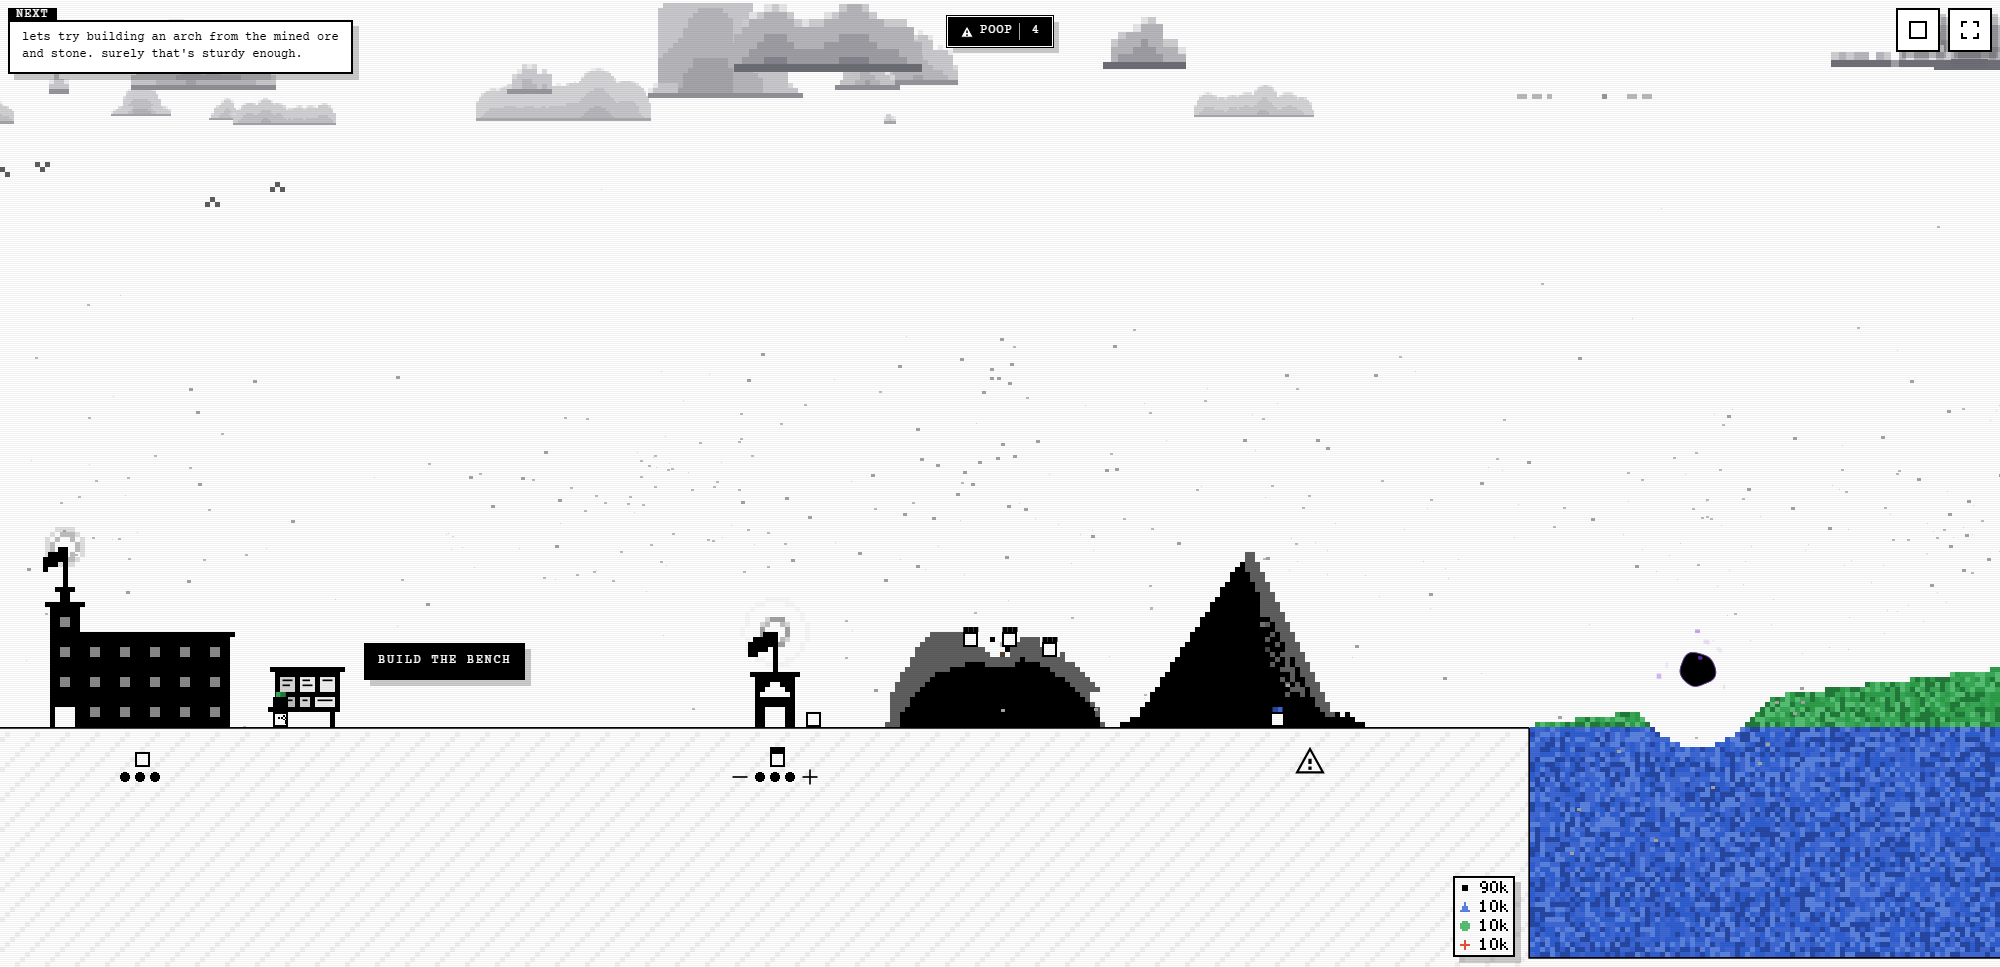
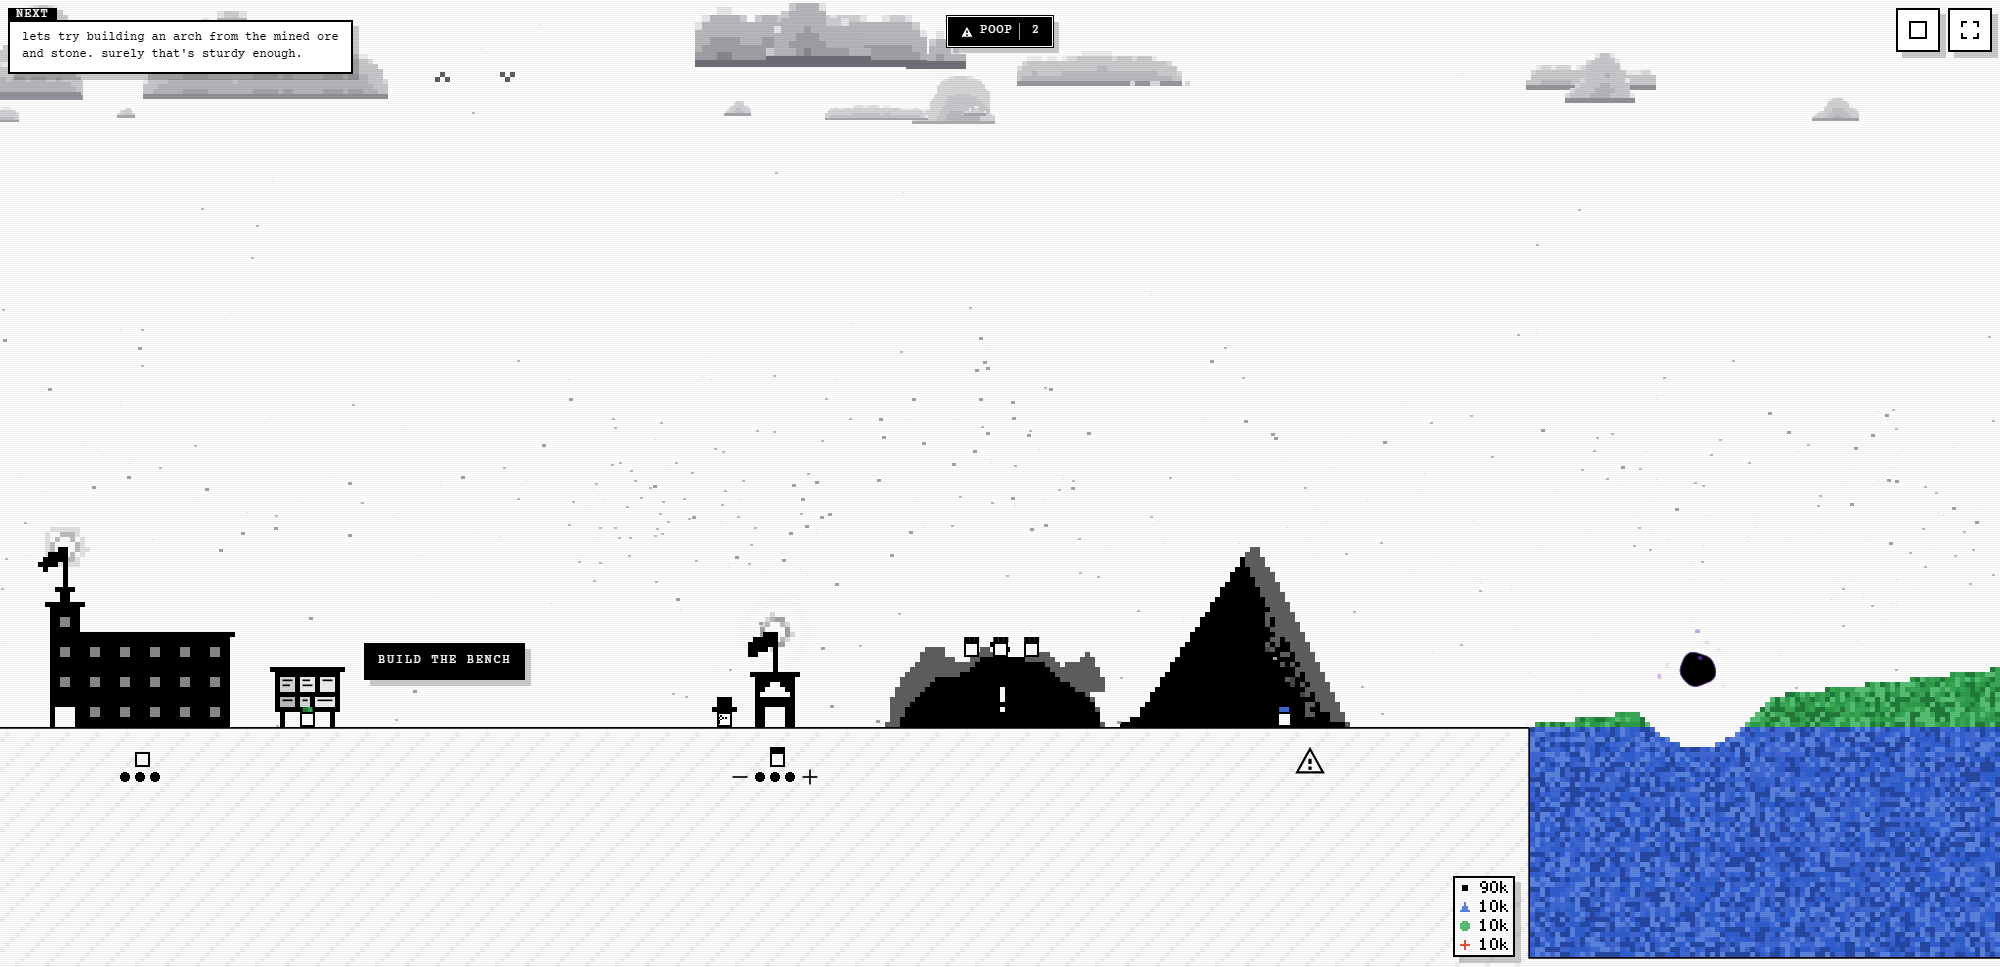
Yard sky: the before/after review

diff --git a/docs/reviews/2026-10-21-yard-sky/index.html b/docs/reviews/2026-10-21-yard-sky/index.html
@@ -1,0 +1,174 @@
+<!doctype html><html lang="en"><head><meta charset="utf-8"><meta name="viewport" content="width=device-width,initial-scale=1">
+<title>The yard's sky on the cloud renderer</title>
+<style>
+:root{--bg:#f2f2ef;--card:#fff;--ink:#1a1a1a;--mute:#5c5c58;--line:#d6d6d0;--well:#e8e8e4;--ok:#2f7a3b;--no:#b3261e;--scrim:rgb(20 20 20 / .97)}
+@media (prefers-color-scheme:dark){:root:not([data-theme="light"]){--bg:#141414;--card:#1f1f1f;--ink:#e6e6e6;--mute:#9a9a95;--line:#333;--well:#2a2a2a;--ok:#7fcf8b;--no:#f2b8b5}}
+:root[data-theme="dark"]{--bg:#141414;--card:#1f1f1f;--ink:#e6e6e6;--mute:#9a9a95;--line:#333;--well:#2a2a2a;--ok:#7fcf8b;--no:#f2b8b5}
+*{box-sizing:border-box}
+body{margin:0;background:var(--bg);color:var(--ink);font:15px/1.5 system-ui,-apple-system,"Segoe UI",sans-serif;overflow-x:hidden}
+main{max-width:1240px;margin:0 auto;padding:24px 16px 64px}
+h1{font-size:24px;margin:0 0 4px}.lede{color:var(--mute);max-width:80ch;margin:4px 0}.refs{font-size:12px;color:var(--mute)}
+.refs code{font-size:12px}
+.bar{position:sticky;top:0;background:var(--bg);padding:8px 0;display:flex;flex-wrap:wrap;gap:6px;align-items:center;border-bottom:1px solid var(--line);z-index:2;margin-top:12px}
+button{font:13px system-ui,sans-serif;padding:4px 10px;background:var(--card);color:var(--ink);border:1px solid var(--line);cursor:pointer}
+button:focus-visible{outline:2px solid var(--ink);outline-offset:1px}
+.bar button[aria-pressed="true"]{background:var(--ink);color:var(--bg);border-color:var(--ink)}
+.count,.status{font-size:12px;color:var(--mute)}.status.bad{color:var(--no)}
+.item{background:var(--card);border:1px solid var(--line);border-left:4px solid var(--line);padding:12px 14px;margin:14px 0;min-width:0}
+.item.approve{border-left-color:var(--ok)}.item.deny{border-left-color:var(--no)}
+.item h2{margin:2px 0 2px;font-size:17px}.tag{font-size:12px;color:var(--mute)}.what{margin:2px 0 8px;max-width:90ch}
+.shot{border-top:1px dashed var(--line);padding:8px 0}
+.shot .label{font-size:13px;color:var(--mute);margin-bottom:4px}
+.pair{display:grid;grid-template-columns:1fr 1fr;gap:10px;align-items:start}
+@media (max-width:700px){.pair{grid-template-columns:1fr}}
+figure{margin:0;min-width:0}
+figcaption{font-size:11px;letter-spacing:.08em;text-transform:uppercase;color:var(--mute);margin-bottom:2px}
+.pic{display:block;width:100%;padding:0;border:1px solid var(--line);background:var(--well);cursor:zoom-in}
+.pic img{display:block;max-width:100%;max-height:520px;margin:0 auto;height:auto}
+.px img{image-rendering:pixelated}
+.none{padding:18px 10px;font-size:13px;color:var(--mute);border:1px dashed var(--line);text-align:center}
+.note{font-size:12px;color:var(--mute)}
+.act{display:flex;flex-wrap:wrap;gap:6px;align-items:center;margin-top:8px}
+.act .ok[aria-pressed="true"]{background:var(--ok);color:var(--bg);border-color:var(--ok)}
+.act .no[aria-pressed="true"]{background:var(--no);color:var(--bg);border-color:var(--no)}
+textarea{font:14px system-ui,sans-serif;width:100%;min-height:2.4em;margin-top:6px;padding:4px 6px;background:var(--bg);color:var(--ink);border:1px solid var(--line);resize:vertical}
+.saved{font-size:11px;color:var(--mute)}
+.lb{position:fixed;inset:0;background:var(--scrim);display:flex;flex-direction:column;z-index:10;color:#eee}
+.lb[hidden]{display:none}
+.lb .top{display:flex;flex-wrap:wrap;gap:8px;align-items:center;padding:8px 12px;font-size:13px}
+.lb .top .t{flex:1;min-width:0;overflow-wrap:anywhere}
+.lb button{background:#222;color:#eee;border-color:#555}
+.lb button[aria-pressed="true"]{background:#eee;color:#111;border-color:#eee}
+.lb .stage{flex:1;min-height:0;display:flex;align-items:center;justify-content:center;padding:8px}
+.lb .stage img{max-width:100%;max-height:100%;object-fit:contain}
+.lb .side{font-size:12px;letter-spacing:.1em;text-transform:uppercase}
+.lb .hint{font-size:11px;color:#aaa;padding:0 12px 8px}
+</style></head><body><main>
+<h1 id="title"></h1>
+<p class="lede" id="lede"></p>
+<p class="refs" id="refs"></p>
+<div class="bar" id="bar"><button data-f="all" aria-pressed="true">all</button><button data-f="open">unreviewed</button><button data-f="approve">approved</button><button data-f="deny">denied</button><span class="count" id="count"></span><span class="status" id="status">connecting…</span></div>
+<div id="list"></div></main>
+<div class="lb" id="lb" hidden role="dialog" aria-modal="true" aria-label="enlarged shot">
+ <div class="top"><span class="t" id="lbt"></span><button id="lbb" aria-pressed="true">before</button><button id="lba" aria-pressed="false">after</button><button id="lbx">close</button></div>
+ <div class="stage" id="lbs"><img id="lbi" alt=""></div>
+ <div class="hint">space flips before and after · ← → step through shots · esc closes</div>
+</div>
+<script id="data" type="application/json">{"title":"The yard's sky on the cloud renderer","lede":"Every yard cloud is the shared renderer's: turrets on a flat base, flowing slowly, swelling with the storm's clock and browning with the murk as before. Weather, rain, the storm clock and smog are unchanged.","base":"9370442c6ce6c5f3807ec379ed9c8f234c358657","head":"9bf0ee2e2efb1202fb78fad3fc9f196b57a53396","at":"2026-10-20T20:10:43.400Z","items":[{"id":"clear","title":"A clear sky","what":"the ordinary sky","audit":[],"shots":[{"label":"2000x967 light","before":{"src":"clear/1-before.png","gif":false,"note":""},"after":{"src":"clear/1-after.png","gif":false,"note":""},"pixel":false},{"label":"2000x967 dark","before":{"src":"clear/2-before.png","gif":false,"note":""},"after":{"src":"clear/2-after.png","gif":false,"note":""},"pixel":false},{"label":"800x600 light","before":{"src":"clear/3-before.png","gif":false,"note":""},"after":{"src":"clear/3-after.png","gif":false,"note":""},"pixel":false},{"label":"800x600 dark","before":{"src":"clear/4-before.png","gif":false,"note":""},"after":{"src":"clear/4-after.png","gif":false,"note":""},"pixel":false}]},{"id":"swell","title":"A front at the end of its brew","what":"the clouds swelled by the storm's clock","audit":[],"shots":[{"label":"2000x967 light","before":{"src":"swell/1-before.png","gif":false,"note":""},"after":{"src":"swell/1-after.png","gif":false,"note":""},"pixel":false},{"label":"2000x967 dark","before":{"src":"swell/2-before.png","gif":false,"note":""},"after":{"src":"swell/2-after.png","gif":false,"note":""},"pixel":false},{"label":"800x600 light","before":{"src":"swell/3-before.png","gif":false,"note":""},"after":{"src":"swell/3-after.png","gif":false,"note":""},"pixel":false},{"label":"800x600 dark","before":{"src":"swell/4-before.png","gif":false,"note":""},"after":{"src":"swell/4-after.png","gif":false,"note":""},"pixel":false}]},{"id":"rain","title":"A full storm","what":"the rain under the swelled sky","audit":[],"shots":[{"label":"2000x967 light","before":{"src":"rain/1-before.png","gif":false,"note":""},"after":{"src":"rain/1-after.png","gif":false,"note":""},"pixel":false},{"label":"2000x967 dark","before":{"src":"rain/2-before.png","gif":false,"note":""},"after":{"src":"rain/2-after.png","gif":false,"note":""},"pixel":false},{"label":"800x600 light","before":{"src":"rain/3-before.png","gif":false,"note":""},"after":{"src":"rain/3-after.png","gif":false,"note":""},"pixel":false},{"label":"800x600 dark","before":{"src":"rain/4-before.png","gif":false,"note":""},"after":{"src":"rain/4-after.png","gif":false,"note":""},"pixel":false}]},{"id":"acid","title":"The storm over a dirty sky","what":"the murk's brown in the clouds","audit":[],"shots":[{"label":"2000x967 light","before":{"src":"acid/1-before.png","gif":false,"note":""},"after":{"src":"acid/1-after.png","gif":false,"note":""},"pixel":false}]},{"id":"fallback","title":"No WebGL2","what":"the same clouds as columns, as a page without WebGL2 draws them (CLOUDS_FLAT forced on)","audit":[],"shots":[{"label":"2000x967 light, columns","before":{"note":"error: Error: no such knob: CLOUDS_FLAT"},"after":{"src":"fallback/1-after.png","gif":false,"note":""},"pixel":false}]},{"id":"pan","title":"A pan in the brew","what":"every cloud sliding as one piece","audit":[],"shots":[{"label":"pan","before":{"src":"pan/1-before.gif","gif":true,"note":""},"after":{"src":"pan/1-after.gif","gif":true,"note":""},"pixel":false}]}]}</script>
+<script>
+const D = JSON.parse(document.getElementById('data').textContent);
+const rev = {}; let db = null, filter = 'all';
+const list = document.getElementById('list'), rows = new Map();
+const esc = s => String(s).replace(/[&<>"]/g, c => ({'&':'&amp;','<':'&lt;','>':'&gt;','"':'&quot;'}[c]));
+document.getElementById('title').textContent = D.title;
+document.getElementById('lede').textContent = D.lede;
+document.getElementById('refs').innerHTML = 'before <code>' + esc(D.base.slice(0, 8)) + '</code> · after <code>' + esc(D.head.slice(0, 8)) + '</code> · shot ' + esc(D.at.slice(0, 16).replace('T', ' ')) + ' UTC';
+
+// Every enlargeable shot in page order, for the lightbox's arrows.
+const flat = [];
+const side = (s, which) => {
+  if (!s.src) return '<div class="none">' + esc(s.note || 'not shot') + '</div>';
+  const k = flat.length;
+  return '<button class="pic" data-k="' + k + '" data-side="' + which + '" aria-label="enlarge ' + which + '"><img loading="lazy" src="' + esc(s.src) + '" alt="' + which + '"></button>' + (s.note ? '<div class="note">' + esc(s.note) + '</div>' : '');
+};
+for (const it of D.items) {
+  const el = document.createElement('article'); el.className = 'item'; el.id = it.id;
+  let shots = '';
+  it.shots.forEach((s, n) => {
+    shots += '<div class="shot' + (s.pixel ? ' px' : '') + '"><div class="label">' + (n + 1) + '. ' + esc(s.label) + '</div><div class="pair">'
+      + '<figure><figcaption>before</figcaption>' + side(s.before, 'before') + '</figure>'
+      + '<figure><figcaption>after</figcaption>' + side(s.after, 'after') + '</figure></div></div>';
+    // pushed after both sides are written, so the pair share one entry
+    flat.push({ it, n, s });
+  });
+  el.innerHTML = '<div class="tag">' + esc(it.id) + (it.audit.length ? ' · audit ' + it.audit.map(esc).join(', ') : '') + '</div>'
+    + '<h2>' + esc(it.title) + '</h2><p class="what">' + esc(it.what) + '</p>' + shots
+    + '<div class="act"><button class="ok" aria-pressed="false">approve</button><button class="no" aria-pressed="false">deny</button><span class="saved"></span></div>'
+    + '<textarea placeholder="comment (optional)" aria-label="comment on ' + esc(it.title) + '"></textarea>';
+  list.append(el);
+  const r = { it, el, ok: el.querySelector('.ok'), no: el.querySelector('.no'), note: el.querySelector('textarea'), saved: el.querySelector('.saved'), timer: null };
+  rows.set(it.id, r);
+  r.ok.onclick = () => setVerdict(r, rev[it.id]?.verdict === 'approve' ? '' : 'approve');
+  r.no.onclick = () => setVerdict(r, rev[it.id]?.verdict === 'deny' ? '' : 'deny');
+  r.note.addEventListener('input', () => { clearTimeout(r.timer); r.saved.textContent = db ? 'saving…' : 'not saved: open the published page'; r.timer = setTimeout(() => save(r), 600); });
+  r.note.addEventListener('blur', () => { if (r.timer) { clearTimeout(r.timer); save(r); } });
+}
+
+function setVerdict(r, v) { rev[r.it.id] = { ...(rev[r.it.id] || {}), verdict: v }; paint(r); save(r); }
+function paint(r) {
+  const v = rev[r.it.id]?.verdict || '';
+  r.ok.setAttribute('aria-pressed', v === 'approve'); r.no.setAttribute('aria-pressed', v === 'deny');
+  r.el.classList.toggle('approve', v === 'approve'); r.el.classList.toggle('deny', v === 'deny');
+}
+async function save(r) {
+  r.timer = null;
+  if (!db) { r.saved.textContent = 'not saved: open the published page'; render(); return; }
+  const verdict = rev[r.it.id]?.verdict || '', comment = r.note.value;
+  rev[r.it.id] = { verdict, comment };
+  try {
+    const ref = db.collection('reviews').doc(r.it.id);
+    if (!verdict && !comment.trim()) await ref.delete();
+    else await ref.set({ verdict, comment, title: r.it.title, at: new Date().toISOString() });
+    r.saved.textContent = 'saved';
+  } catch (e) { r.saved.textContent = 'not saved: ' + (e && e.code || 'error'); }
+  render();
+}
+function render() {
+  let n = 0, done = 0, ok = 0, no = 0;
+  for (const r of rows.values()) {
+    const v = rev[r.it.id]?.verdict || '';
+    if (v) done++; if (v === 'approve') ok++; if (v === 'deny') no++;
+    const show = filter === 'all' || (filter === 'open' ? !v : filter === v);
+    r.el.hidden = !show; if (show) n++;
+  }
+  for (const b of document.querySelectorAll('#bar button')) b.setAttribute('aria-pressed', b.dataset.f === filter);
+  document.getElementById('count').textContent = n + ' shown · ' + done + ' of ' + D.items.length + ' reviewed · ' + ok + ' approved · ' + no + ' denied';
+}
+document.getElementById('bar').addEventListener('click', e => { const b = e.target.closest('button'); if (b) { filter = b.dataset.f; render(); } });
+render();
+
+// The lightbox: one shot at a time, before or after, flipped in place.
+const lb = document.getElementById('lb'), lbi = document.getElementById('lbi'), lbt = document.getElementById('lbt');
+const lbb = document.getElementById('lbb'), lba = document.getElementById('lba');
+let at = 0, showing = 'before', opener = null;
+function show() {
+  const f = flat[at], s = f.s[showing].src ? showing : (showing === 'before' ? 'after' : 'before');
+  showing = s;
+  lbi.src = f.s[s].src || ''; lbi.alt = s;
+  lbi.style.imageRendering = f.s.pixel ? 'pixelated' : '';
+  lbt.textContent = f.it.title + ' — ' + (f.n + 1) + '. ' + f.s.label + '  (' + s + ')';
+  lbb.setAttribute('aria-pressed', s === 'before'); lba.setAttribute('aria-pressed', s === 'after');
+  lbb.disabled = !f.s.before.src; lba.disabled = !f.s.after.src;
+}
+function openAt(k, which) { opener = document.activeElement; at = k; showing = which; lb.hidden = false; show(); lbb.focus(); }
+function close() { lb.hidden = true; lbi.src = ''; opener?.focus?.(); }
+list.addEventListener('click', e => { const b = e.target.closest('.pic'); if (b) openAt(+b.dataset.k, b.dataset.side); });
+lbb.onclick = () => { showing = 'before'; show(); };
+lba.onclick = () => { showing = 'after'; show(); };
+document.getElementById('lbx').onclick = close;
+document.getElementById('lbs').addEventListener('click', e => { if (e.target === e.currentTarget) close(); });
+addEventListener('keydown', e => {
+  if (lb.hidden) return;
+  if (e.key === ' ' || e.key === 'Spacebar') { e.preventDefault(); showing = showing === 'before' ? 'after' : 'before'; show(); }
+  else if (e.key === 'Escape') close();
+  else if (e.key === 'ArrowRight') { at = (at + 1) % flat.length; show(); }
+  else if (e.key === 'ArrowLeft') { at = (at - 1 + flat.length) % flat.length; show(); }
+});
+
+(async () => {
+  const st = document.getElementById('status');
+  try { db = window.claude ? await window.claude.use('db') : null; } catch { db = null; }
+  if (!db) { st.textContent = 'read-only here: verdicts save only on the published page, signed in'; st.className = 'status bad'; return; }
+  st.textContent = 'saves as you go';
+  db.collection('reviews').onSnapshot(snap => {
+    const seen = new Set();
+    for (const d of snap.docs) {
+      const v = d.data() || {}; seen.add(d.id); rev[d.id] = { verdict: v.verdict || '', comment: v.comment || '' };
+      const r = rows.get(d.id);
+      if (r) { if (document.activeElement !== r.note && !r.timer) r.note.value = v.comment || ''; paint(r); }
+    }
+    for (const id of Object.keys(rev)) if (!seen.has(id)) { delete rev[id]; const r = rows.get(id); if (r && !r.timer) { r.note.value = ''; paint(r); } }
+    render();
+  }, () => { st.textContent = 'lost the connection; reload the page'; st.className = 'status bad'; });
+})();
+</script></body></html>
